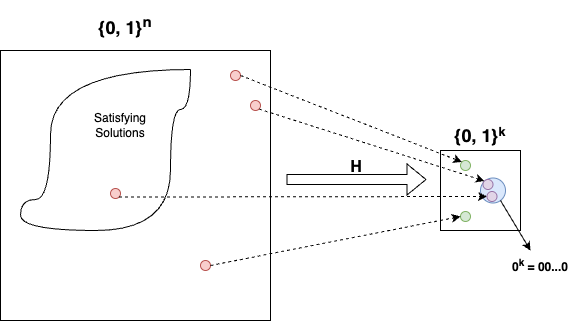
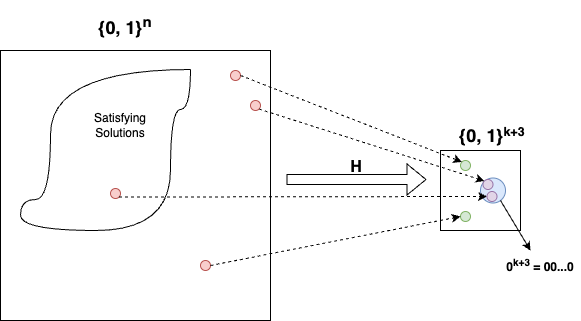
Fix some math

Changed region(s): [[0.7745, 0.3738, 0.8985, 0.4673], [0.8675, 0.81, 0.9914, 0.8411]]

diff --git a/_includes/appalet.html b/_includes/appalet.html
@@ -305,6 +305,79 @@ document.addEventListener("DOMContentLoaded", function() {
       return Math.abs(area) / 2;
     }
 
+    function plotHitLikelihood(p) {
+      const data = [];
+      for (let n = 1;; n++) {
+        const prob = 1 - Math.pow(1 - p, n);
+        data.push({ n, prob });
+        if (prob >= 0.99) break;
+      }
+      const width = 500, height = 300, margin = { top: 20, right: 20, bottom: 40, left: 50 };
+
+      d3.select("#likelihood-plot").html("");
+      const svg = d3.select("#likelihood-plot")
+        .append("svg")
+        .attr("width", width)
+        .attr("height", height);
+
+      const x = d3.scaleLinear()
+        .domain([1, data.length + 1])
+        .range([margin.left, width - margin.right]);
+
+      const y = d3.scaleLinear()
+        .domain([0, 1])
+        .range([height - margin.bottom, margin.top]);
+
+      const line = d3.line()
+        .x(d => x(d.n))
+        .y(d => y(d.prob));
+
+      svg.append("path")
+        .datum(data)
+        .attr("fill", "none")
+        .attr("stroke", "steelblue")
+        .attr("stroke-width", 2)
+        .attr("d", line);
+
+      svg.append("g")
+        .attr("transform", `translate(0,${height - margin.bottom})`)
+        .call(d3.axisBottom(x));
+
+      svg.append("g")
+        .attr("transform", `translate(${margin.left},0)`)
+        .call(d3.axisLeft(y));
+      const percentiles = [0.2, 0.5, 0.8];
+      percentiles.forEach(p_thresh => {
+        const n_value = Math.ceil(Math.log(1 - p_thresh) / Math.log(1 - p));
+        svg.append("line")
+          .attr("x1", x(n_value))
+          .attr("x2", x(n_value))
+          .attr("y1", y(0))
+          .attr("y2", y(1))
+          .attr("stroke", "red")
+          .attr("stroke-dasharray", "4 2");
+
+        svg.append("text")
+          .attr("x", x(n_value) + 5)
+          .attr("y", y(p_thresh + 0.05))
+          .text(`${Math.round(p_thresh * 100)}%: n ≈ ${n_value}`)
+          .style("font-size", "10px")
+          .attr("fill", "red");
+      });
+      svg.append("text")
+        .attr("x", width / 2)
+        .attr("y", height - 5)
+        .attr("text-anchor", "middle")
+        .text("Number of Input Points (n)");
+
+      svg.append("text")
+        .attr("transform", "rotate(-90)")
+        .attr("x", -height / 2)
+        .attr("y", 15)
+        .attr("text-anchor", "middle")
+        .text("Probability of Observing a Hit");
+    }
+
     const isInside = hashedDots.filter(dot => pointInPolygon(dot, polygon)); 
     isInside.forEach(dot => {
         regionCtx.fillStyle = "purple";
@@ -314,16 +387,16 @@ document.addEventListener("DOMContentLoaded", function() {
     });
     const polygonArea = calculatePolygonArea(polygon);
     const percentage_area = polygonArea / (redDotsCanvas.width * redDotsCanvas.height);
-    const guessInputPoints = (1.0 / percentage_area).toFixed(2);
+    const guessInputPoints = (Math.log(0.5) / Math.log(1 - percentage_area)).toFixed(2);
     document.getElementById('area').textContent = (percentage_area * 100).toFixed(2) + "%";
     if (isInside.length > 0) {
         document.getElementById('hit').textContent = 'True';
-        document.getElementById('inference').textContent = `#Inputs points > ${guessInputPoints} (Probably)`;
+        document.getElementById('inference').textContent = `#Inputs points > ${guessInputPoints} (probably)`;
     } else {
         document.getElementById('hit').textContent = 'False';
-        document.getElementById('inference').textContent = `#Inputs points < ${guessInputPoints} (Probably)`;
+        document.getElementById('inference').textContent = `#Inputs points < ${guessInputPoints} (probably)`;
     }
+    plotHitLikelihood(percentage_area);
   });
-
 });
 </script>

diff --git a/_posts/2025-04-14-Hashing-when-you-want-chaos.md b/_posts/2025-04-14-Hashing-when-you-want-chaos.md
@@ -152,9 +152,11 @@ Add some input points in the "input space" on the left side and draw a rare even
 <button id="default-button" style="margin-top: 8px;">Default Setup (20 points)</button>
 <button id="run-button" style="margin-top: 8px;">Hash & Test</button>
 
-Percentage area of rare region: **<span id="area"></span><br>**
+Percentage area of rare region (p): **<span id="area"></span><br>**
 Rare region is hit: **<span id="hit"></span><br>**
 Inference: **<span id="inference"></span><br>**
+
+<div id="likelihood-plot"></div>
 
 ## #SAT ([ApproxMC](https://github.com/meelgroup/approxmc))
 
@@ -168,7 +170,7 @@ We solve the simpler problem, call it "#SAT $> 64S$ or $< S$", where we are give
 
 For this simpler problem, we define a hash function $H$ that takes in every possible assignment of the variables and hashes it to a uniform bitstring of size $k$ 
 
-$$H: \{0, 1\}^n \to \{0, 1\}^k$$ [^7]
+$$H: \{0, 1\}^n \to \{0, 1\}^{k + 3}$$ [^7]
 
 For instance: $H(x_1 = 0, x_2 = 1, x_3 = 1, \dots, x_n = 1) = 11010, H(x_1 = 1, x_2 = 0, x_3 = 1, \dots, x_n = 0) = 00100$
 
@@ -178,13 +180,11 @@ _Toy example: $H(x_1, x_2, \dots, x_n)_0 = x_1 \oplus x_3 \oplus x_n, H(x_1, x_2
 
 Now, comes the core idea:
 
-> We will use the hash function to define a rare event, i.e. if there exists an assignment $\overrightarrow{x} = (x_1, x_2, \dots, x_n)$ such that $\phi(\overrightarrow{x}) = 1 \land H(\overrightarrow{x}) = 0^k$, then with high probability number of satisfying assignments is $> 64S$, and $< S$ otherwise.
+> We will use the hash function to define a rare event, i.e. if there exists an assignment $\overrightarrow{x} = (x_1, x_2, \dots, x_n)$ such that $\phi(\overrightarrow{x}) = 1 \land H(\overrightarrow{x}) = 0^{k + 3}$, then with high probability number of satisfying assignments is $> 64S$, and $< S$ otherwise.
 
 Here, we will use our SAT+XOR black-box solver to get the answer to the yes/no satisfiability question for $\phi(\overrightarrow{x}) = 1 \land H(\overrightarrow{x}) = 0^k$
 
-$0^k$ is the all-zero bitstring of size $k$, and is in no way special. It is just used to define a rare event. The idea same as before, is that if the number of satisfying assignments is large, then there is a good chance that some of them will hash to $0^k$ (i.e. the rare event will happen).
-
-By some math[^8], we can show that with probability $\geq 3/4$, this algorithm correctly determines if the number of satisfying assignments is $> 64S$ or $< S$. We can repeat this experiment multiple times to get a better confidence level, and subsequently binary search on $S$ to get a better estimate of the number of satisfying assignments.
+$0^{k + 3}$ is the all-zero bitstring of size $k + 3$, and is in no way special. It is just used to define a rare event. The idea same as before, is that if the number of satisfying assignments is large, then there is a good chance that some of them will hash to $0^{k + 3}$ (i.e. the rare event will happen).
 
 <figure style="display: block; margin: auto; width: 70%; max-width: 600px; height: auto;">
   <img src="{{site.baseurl}}/images/chaos_2.png" alt="Sketch of hashing">
@@ -192,7 +192,9 @@ By some math[^8], we can show that with probability $\geq 3/4$, this algorithm c
 </figure>
 <br>
 
-_Note: Let the number of satisfying assignments be $P$, and after hashing all those assignments fall into random $2^k$ buckets, then in expectation one would see $P/2^k$ satisfying assignments in the $0^k$ bucket. Testing if this number is $\geq 1$ or not, is analogous to the [Playground (Core Idea)](#playground-core-idea) section above._
+_Note: Let the number of satisfying assignments be $P$, and after hashing all those assignments fall into random $2^{k + 3}$ buckets, then in expectation one would see $P/2^{k + 3}$ satisfying assignments in the $0^{k + 3}$ bucket. We have the relationship between $S$ and $k$, that $S = 2^{k}$, so that this number $\frac{P}{2^{k + 3}} = \frac{P}{8S}$. Testing if this is $\geq 1$ or not, helps us predict if $P$ is $> 64S$ or $< S$, this testing idea is analgous to the [Playground (Core Idea)](#playground-core-idea) section above._
+
+By some math[^8], we can show that with probability $\geq 3/4$, this algorithm correctly determines if the number of satisfying assignments is $> 64S$ or $< S$. We can repeat this experiment multiple times to get a better confidence level, and subsequently binary search on $S$ to get a better estimate of the number of satisfying assignments.
 
 ## Conclusion
 
@@ -214,6 +216,6 @@ In part two, we will look at settings where hashing isn't just random chaos - bu
 
 [^6]: 6: [CryptoMiniSat SAT Solver](https://github.com/msoos/cryptominisat) is one such popular SAT solver (with the XOR extension)
 
-[^7]: 7: The precise math, requires $k$ to be $k + 3$ (Ignoring it here for simplicity)
+[^7]: 7: The precise math, requires $k$ to be $k + 3$ (A nuisance for the math to work out)
 
 [^8]: 8: Credits to Prof. Li-Yang Tan who teaches CS254 at Stanford. Attaching his lecture notes [here](https://drive.google.com/file/d/1qPReOndjFydj-x2DtG90KDZtO4zrlAsn/view?usp=sharing), which cover the math as well as how to construct the required hash function
